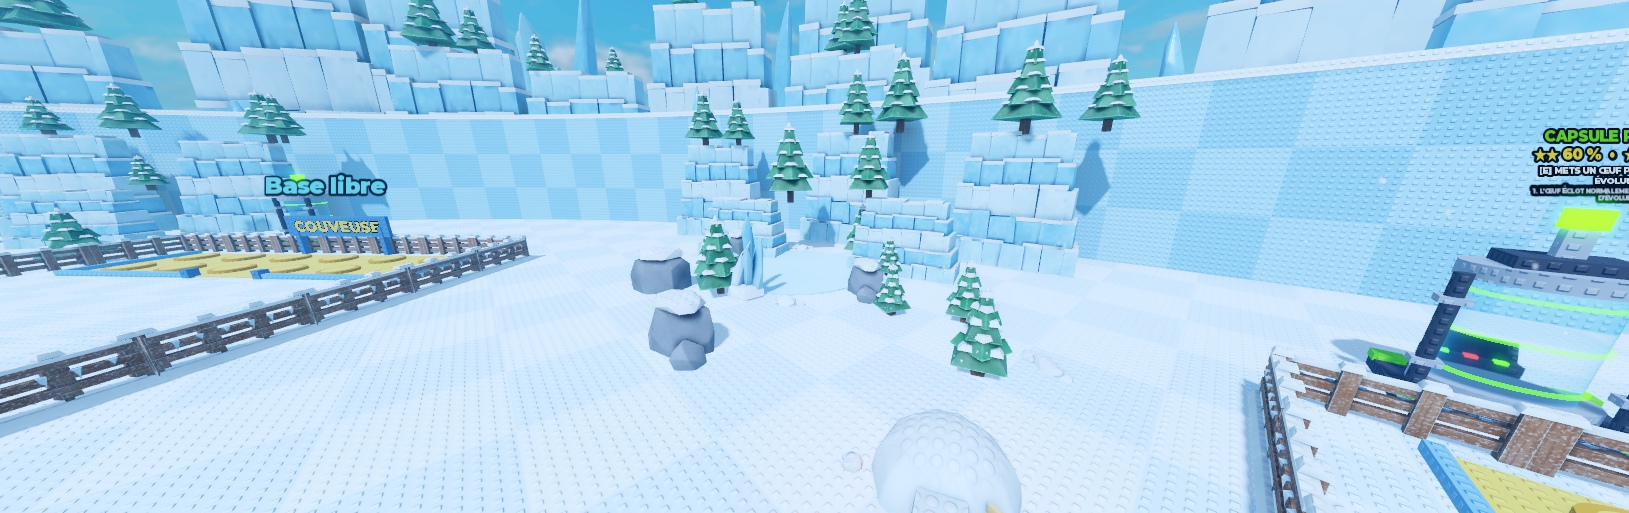
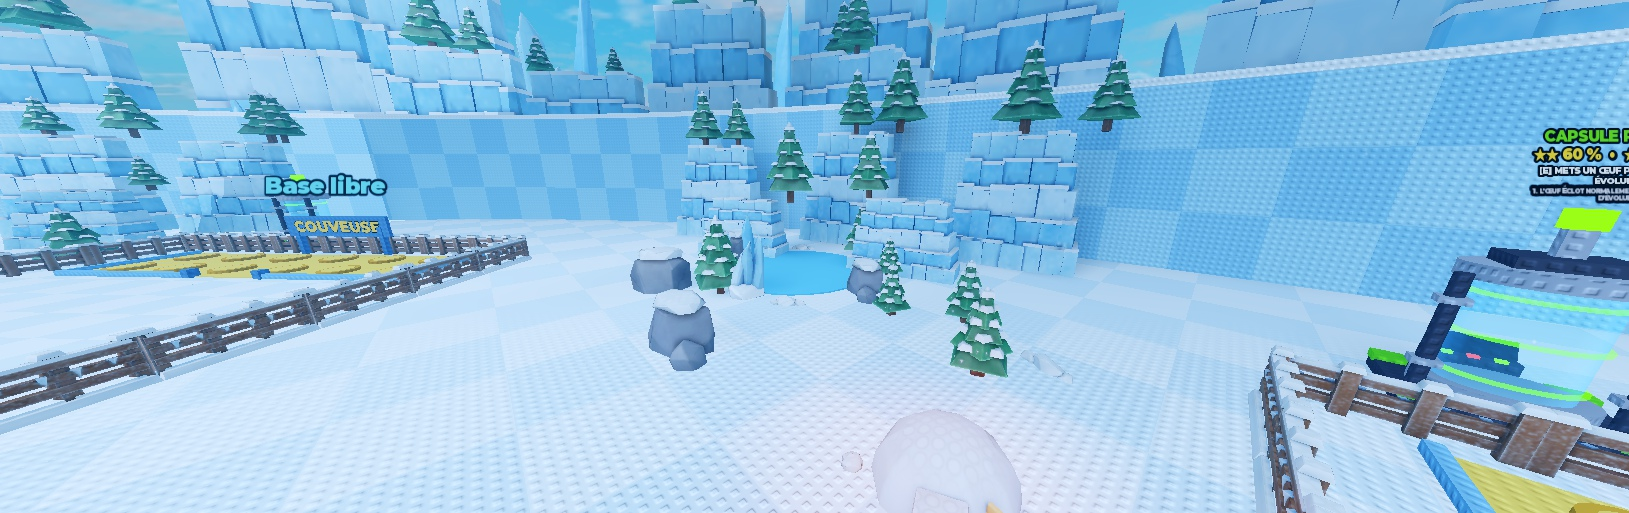
feat: air de la Glace plus saturé (0,05 -> 0,12), lac gelé revu en Play

diff --git a/dataset_and_pipeline/MAP.md b/dataset_and_pipeline/MAP.md
@@ -212,5 +212,5 @@ Mammouth Glaçon, Narval Aurore). 17 décors dans `blender_tools/environment_gla
 - Vérifié en Play (solo, monde changé côté client) : à la Glace, GlaceLook visible (les 3 autres cachés), 33 lumières de
   la Glace allumées et les 37 du Volcan éteintes, vieux cristaux retirés ; photos `qa_renders/map_roblox_glace_nuit.jpg`,
   `map_roblox_glace_lac_jour.jpg`. Le lac (bleu pâle) se voyait à peine sur la neige : recoloré en bleu soutenu
-  (110, 190, 240), pas encore revu en Play.
-- À proposer : saturation de l'air de la Glace 0,05 -> 0,12 (`shared/Worlds`), la neige paraît terne sinon.
+  (110, 190, 240). Saturation de l'air de la Glace passée de 0,05 à 0,12 (`shared/Worlds`, accord de Chouaib) : vérifié
+  en Play (ColorCorrection à 0,12 au monde Glace, glaciers plus bleus, lac bien visible).
